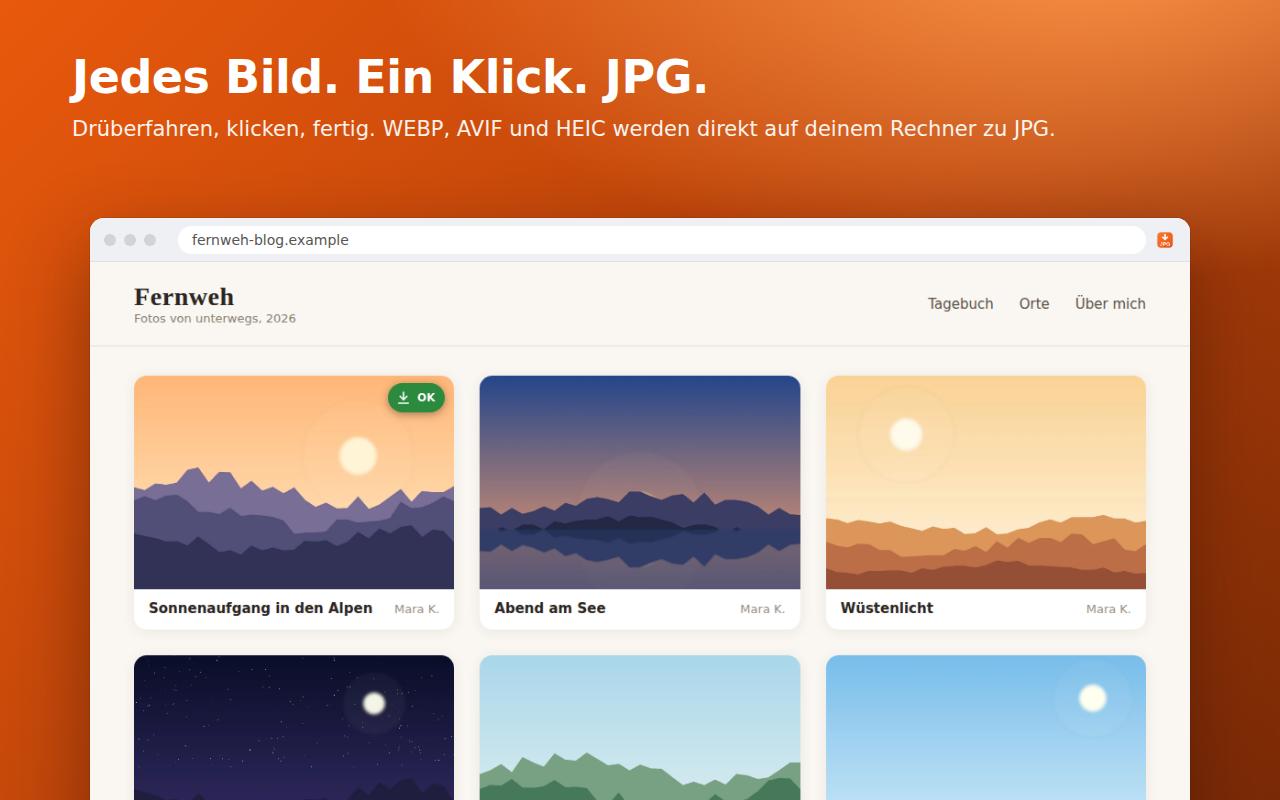
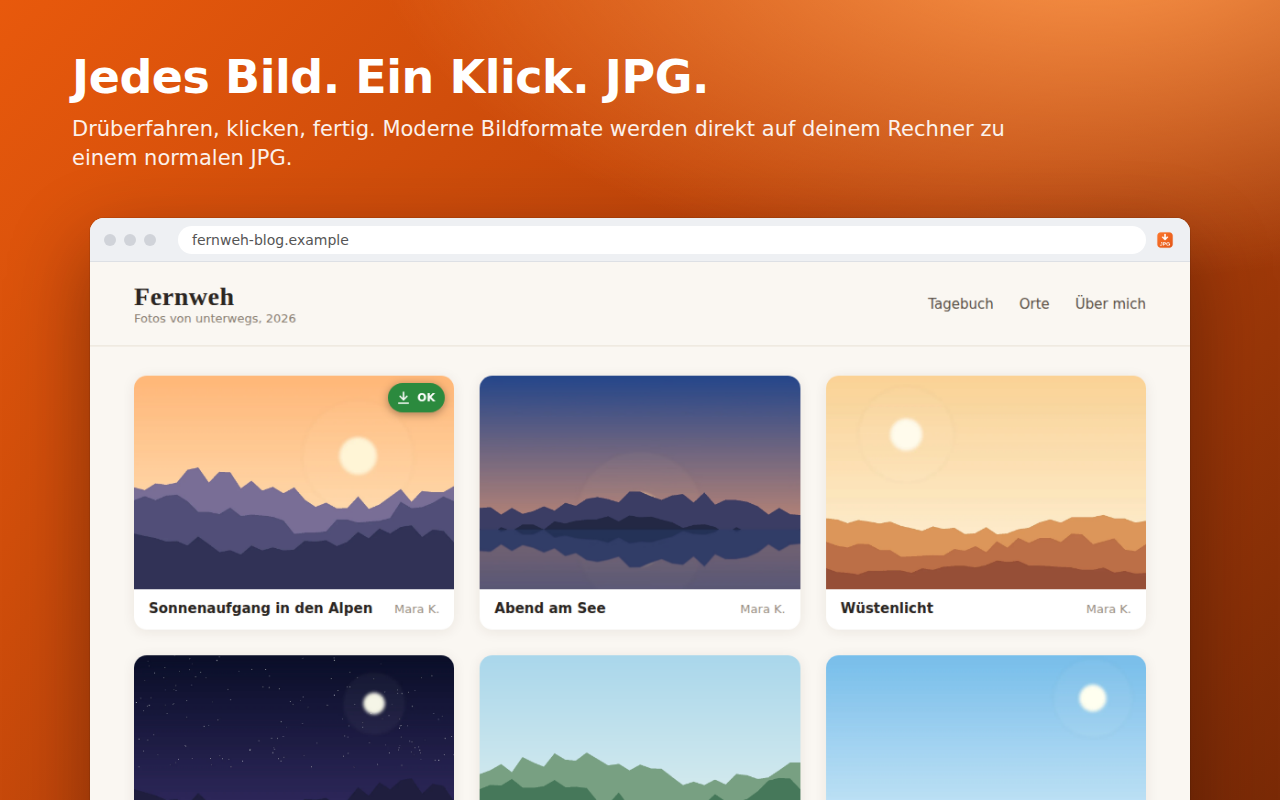
Fix Chrome Web Store keyword-spam rejection (1.0.1)
Google flagged the lists of file formats in the descriptions as keyword
stuffing. Rewrite the manifest descriptions in all locales and the
store listing texts in prose without format, language or placeholder
lists, and replace the format chips on screenshot 5 and the format list
on screenshot 1.

Claude-Session: https://claude.ai/code/session_01EJcZFeskAVqo5JvdkkF1ZN

Changed region(s): [[0.2812, 0.125, 0.8125, 0.1875], [0.0625, 0.1875, 0.2188, 0.2188]]

diff --git a/store/LISTING.md b/store/LISTING.md
@@ -22,7 +22,7 @@ Standardsprache des Eintrags: **Englisch**. Deutsch wird als zusätzliche Sprach
 **Summary** (max. 132 characters)
 
 ```
-Save any image as JPG in one click – WEBP, AVIF, HEIC, even images you can't normally download. Converted locally, no uploads.
+Save any image as JPG in one click – even modern formats and images you can't normally download. Converted locally, no uploads.
 ```
 
 **Description**
@@ -30,35 +30,32 @@ Save any image as JPG in one click – WEBP, AVIF, HEIC, even images you can't n
 ```
 JustJPG saves any image you see as a JPG – with one click, converted right on your computer.
 
-Tired of "Save image as…" giving you a WEBP file? Of AVIF or HEIC photos your editor can't open? Of pages that block right-click or hide the image behind an invisible layer? JustJPG handles all of it.
+"Save image as…" gives you a WEBP file your photo app can't open? A page blocks right-click or hides the picture behind an invisible layer? JustJPG takes care of it and simply gives you a JPG.
 
 ONE CLICK, YOUR WAY
-• Right-click → "Save as JPG" – also works on pages that block right-click
-• Hover button – a small "JPG" button appears on images
-• Keyboard shortcut – Alt+Shift+S saves the image under the mouse pointer
-• Gallery – click the toolbar icon to see every image on the page, filter by size and save them all at once
+• Right-click an image and choose "Save as JPG" – also on pages that block right-click
+• Or click the small JPG button that appears when you hover over an image
+• Or press Alt+Shift+S to save the image under the mouse pointer
+• Or open the gallery from the toolbar to see every image on the page and save several at once
 
 GETS THE IMAGE OTHERS CAN'T
-• Finds images behind transparent overlays, in CSS backgrounds, <picture> and srcset
-• Automatically picks the largest available version
-• Saves canvas drawings, inline SVG and the current frame of a video
-• As a last resort it captures the image from the screen
+• Finds pictures behind transparent overlays and in page backgrounds
+• Automatically picks the largest available version of an image
+• Also saves drawings, graphics and the current frame of a video
+• As a last resort it captures the picture straight from the screen
 
-CONVERTS EVERYTHING TO JPG – LOCALLY
-• WEBP, AVIF, HEIC/HEIF (iPhone), PNG, GIF, SVG, BMP, ICO → JPG
-• HEIC is decoded with a built-in WebAssembly decoder – no server involved
-• Existing JPGs are kept 1:1 without recompression
-• Transparent areas get a background colour of your choice
+EVERYTHING BECOMES A NORMAL JPG
+Modern web formats and iPhone photos are converted into regular JPG files that open everywhere. Pictures that already are JPGs are saved unchanged, without losing quality.
 
 MAKE IT YOURS
-• JPG quality 50–100 %
-• Save directly or choose the location every time, optional subfolder
-• File names from 10 templates or your own pattern: {name}, {domain}, {title}, {date}, {counter}, {width}x{height} and more
-• Cryptic names like "a8f3c2e9…" are replaced automatically
-• 8 languages: English, German, Spanish, Italian, Greek, Austrian – and Pirate (English and German)
+• Choose the JPG quality and the background colour for transparent areas
+• Save straight to your downloads, into a subfolder, or pick the place each time
+• Name files the way you like, for example by page title and date
+• Meaningless file names are replaced automatically
+• Available in 8 languages
 
 PRIVACY
-Everything happens on your computer. JustJPG has no account, no analytics, no tracking and never uploads your images anywhere. Your settings are stored in Chrome.
+Everything happens on your computer. No account, no analytics, no tracking, and your images are never uploaded anywhere.
 
 Please respect copyright and the terms of the websites you visit. JustJPG cannot bypass DRM-protected video.
 ```
@@ -70,7 +67,7 @@ Please respect copyright and the terms of the websites you visit. JustJPG cannot
 **Kurzbeschreibung** (max. 132 Zeichen)
 
 ```
-Jedes Bild mit einem Klick als JPG – auch WEBP, AVIF, HEIC und Bilder ohne Download. Lokal umgewandelt, ohne Upload.
+Jedes Bild mit einem Klick als JPG – auch moderne Formate und Bilder ohne Download-Möglichkeit. Lokal umgewandelt, ohne Upload.
 ```
 
 **Beschreibung**
@@ -78,35 +75,41 @@ Jedes Bild mit einem Klick als JPG – auch WEBP, AVIF, HEIC und Bilder ohne Dow
 ```
 JustJPG speichert jedes Bild, das du siehst, als JPG – mit einem Klick und direkt auf deinem Rechner umgewandelt.
 
-Genug davon, dass „Bild speichern unter…“ eine WEBP-Datei liefert? Dass AVIF- oder HEIC-Fotos sich nicht öffnen lassen? Dass Seiten den Rechtsklick sperren oder das Bild hinter einer unsichtbaren Ebene verstecken? JustJPG erledigt das alles.
+„Bild speichern unter…“ liefert eine WEBP-Datei, die dein Bildprogramm nicht öffnet? Eine Seite sperrt den Rechtsklick oder versteckt das Bild hinter einer unsichtbaren Ebene? JustJPG kümmert sich darum und gibt dir einfach ein JPG.
 
 EIN KLICK, WIE DU WILLST
-• Rechtsklick → „Als JPG speichern“ – auch auf Seiten, die den Rechtsklick sperren
-• Hover-Button – auf Bildern erscheint ein kleiner „JPG“-Knopf
-• Tastenkürzel – Alt+Shift+S speichert das Bild unter dem Mauszeiger
-• Galerie – Klick auf das Symbol zeigt alle Bilder der Seite, nach Größe filterbar, alle auf einmal speicherbar
+• Rechtsklick auf ein Bild und „Als JPG speichern“ – auch auf Seiten, die den Rechtsklick sperren
+• Oder den kleinen JPG-Knopf anklicken, der beim Überfahren eines Bildes erscheint
+• Oder Alt+Shift+S drücken, um das Bild unter dem Mauszeiger zu speichern
+• Oder über das Symbol die Galerie öffnen, alle Bilder der Seite sehen und mehrere auf einmal speichern
 
 HOLT AUCH BILDER, DIE SICH SONST NICHT SPEICHERN LASSEN
-• Findet Bilder hinter transparenten Ebenen, in CSS-Hintergründen, <picture> und srcset
-• Nimmt automatisch die größte verfügbare Version
-• Speichert Canvas-Zeichnungen, Inline-SVG und das aktuelle Standbild eines Videos
-• Als letzte Lösung wird das Bild vom Bildschirm abfotografiert
+• Findet Bilder hinter transparenten Ebenen und in Seitenhintergründen
+• Nimmt automatisch die größte verfügbare Version eines Bildes
+• Speichert auch Zeichnungen, Grafiken und das aktuelle Standbild eines Videos
+• Als letzte Lösung wird das Bild direkt vom Bildschirm übernommen
 
-WANDELT ALLES IN JPG UM – LOKAL
-• WEBP, AVIF, HEIC/HEIF (iPhone), PNG, GIF, SVG, BMP, ICO → JPG
-• HEIC wird mit einem eingebauten WebAssembly-Decoder gelesen – ohne Server
-• Vorhandene JPGs werden 1:1 übernommen, ohne erneute Komprimierung
-• Transparente Bereiche bekommen eine Hintergrundfarbe deiner Wahl
+AM ENDE IMMER EIN NORMALES JPG
+Moderne Webformate und iPhone-Fotos werden in ganz normale JPG-Dateien umgewandelt, die sich überall öffnen lassen. Bilder, die schon JPGs sind, werden unverändert und ohne Qualitätsverlust gespeichert.
 
 GANZ NACH DEINEM GESCHMACK
-• JPG-Qualität 50–100 %
-• Direkt speichern oder jedes Mal fragen, optional in einen Unterordner
-• Dateinamen aus 10 Vorlagen oder eigenem Muster: {name}, {domain}, {title}, {date}, {counter}, {width}x{height} und mehr
-• Kryptische Namen wie „a8f3c2e9…“ werden automatisch ersetzt
-• 8 Sprachen: Englisch, Deutsch, Spanisch, Italienisch, Griechisch, Österreichisch – und Piratensprache (englisch und deutsch)
+• JPG-Qualität und Hintergrundfarbe für transparente Stellen einstellbar
+• Direkt in die Downloads, in einen Unterordner oder jedes Mal fragen
+• Dateinamen nach deinem Wunsch, z.B. aus Seitentitel und Datum
+• Nichtssagende Dateinamen werden automatisch ersetzt
+• In 8 Sprachen verfügbar
 
 DATENSCHUTZ
-Alles passiert auf deinem Rechner. JustJPG hat kein Konto, keine Statistik, kein Tracking und lädt deine Bilder nirgendwohin hoch. Deine Einstellungen speichert Chrome.
+Alles passiert auf deinem Rechner. Kein Konto, keine Statistik, kein Tracking, und deine Bilder werden nirgendwohin hochgeladen.
 
 Bitte beachte das Urheberrecht und die Bedingungen der Webseiten. DRM-geschützte Videos kann JustJPG nicht umgehen.
 ```
+
+---
+
+## Hinweis zu Googles Keyword-Regel
+
+Google lehnt Beschreibungen mit Aufzählungen von Suchbegriffen ab (Meldung „Keyword-Spam“ / „Yellow Argon“).
+Deshalb: Dateiformate, Sprachen oder Platzhalter **nicht als Liste** aufzählen, sondern im Fließtext
+beschreiben, was der Nutzer davon hat. Das gilt auch für die Kurzbeschreibung im Addon
+(`extension/_locales/*/messages.json`) und für Texte in Screenshots.

diff --git a/store/PRIVACY-PRACTICES.md b/store/PRIVACY-PRACTICES.md
@@ -9,7 +9,7 @@ alle Texte hier passen. Unter jedem Block steht auf Deutsch, was er bedeutet.
 ## Single purpose description
 
 ```
-JustJPG saves images from web pages as JPG files. The user picks an image (right-click menu, a hover button, a keyboard shortcut or a gallery of the page's images); the extension fetches the best available version of that image, converts it locally to JPG (from WEBP, AVIF, HEIC, PNG, SVG, canvas or a video frame) and downloads it. Every feature serves this one purpose.
+JustJPG saves images from web pages as JPG files. The user picks an image (right-click menu, a hover button, a keyboard shortcut or a gallery of the page's images); the extension fetches the best available version of that image, converts it locally to JPG and downloads it. Every feature serves this one purpose.
 ```
 
 > Deutsch: Der eine Zweck des Addons ist „Bilder von Webseiten als JPG speichern“. Alle Funktionen dienen genau dem.
